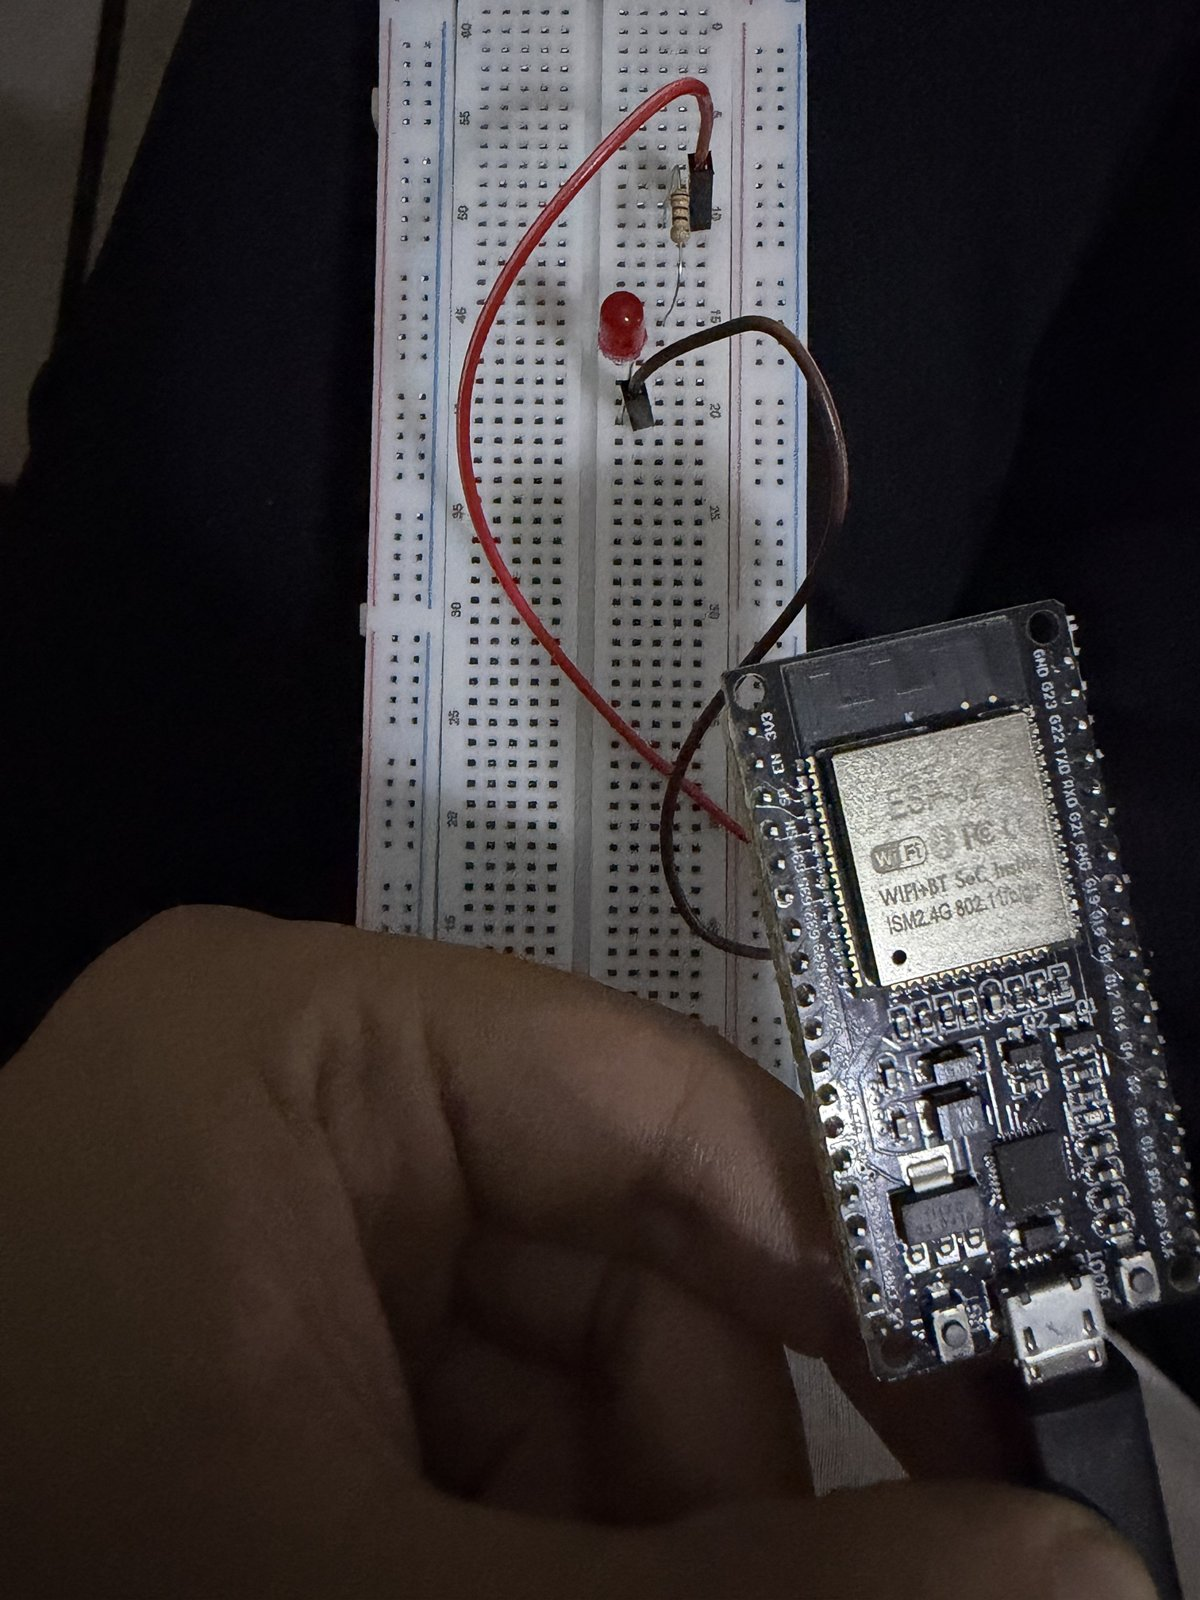
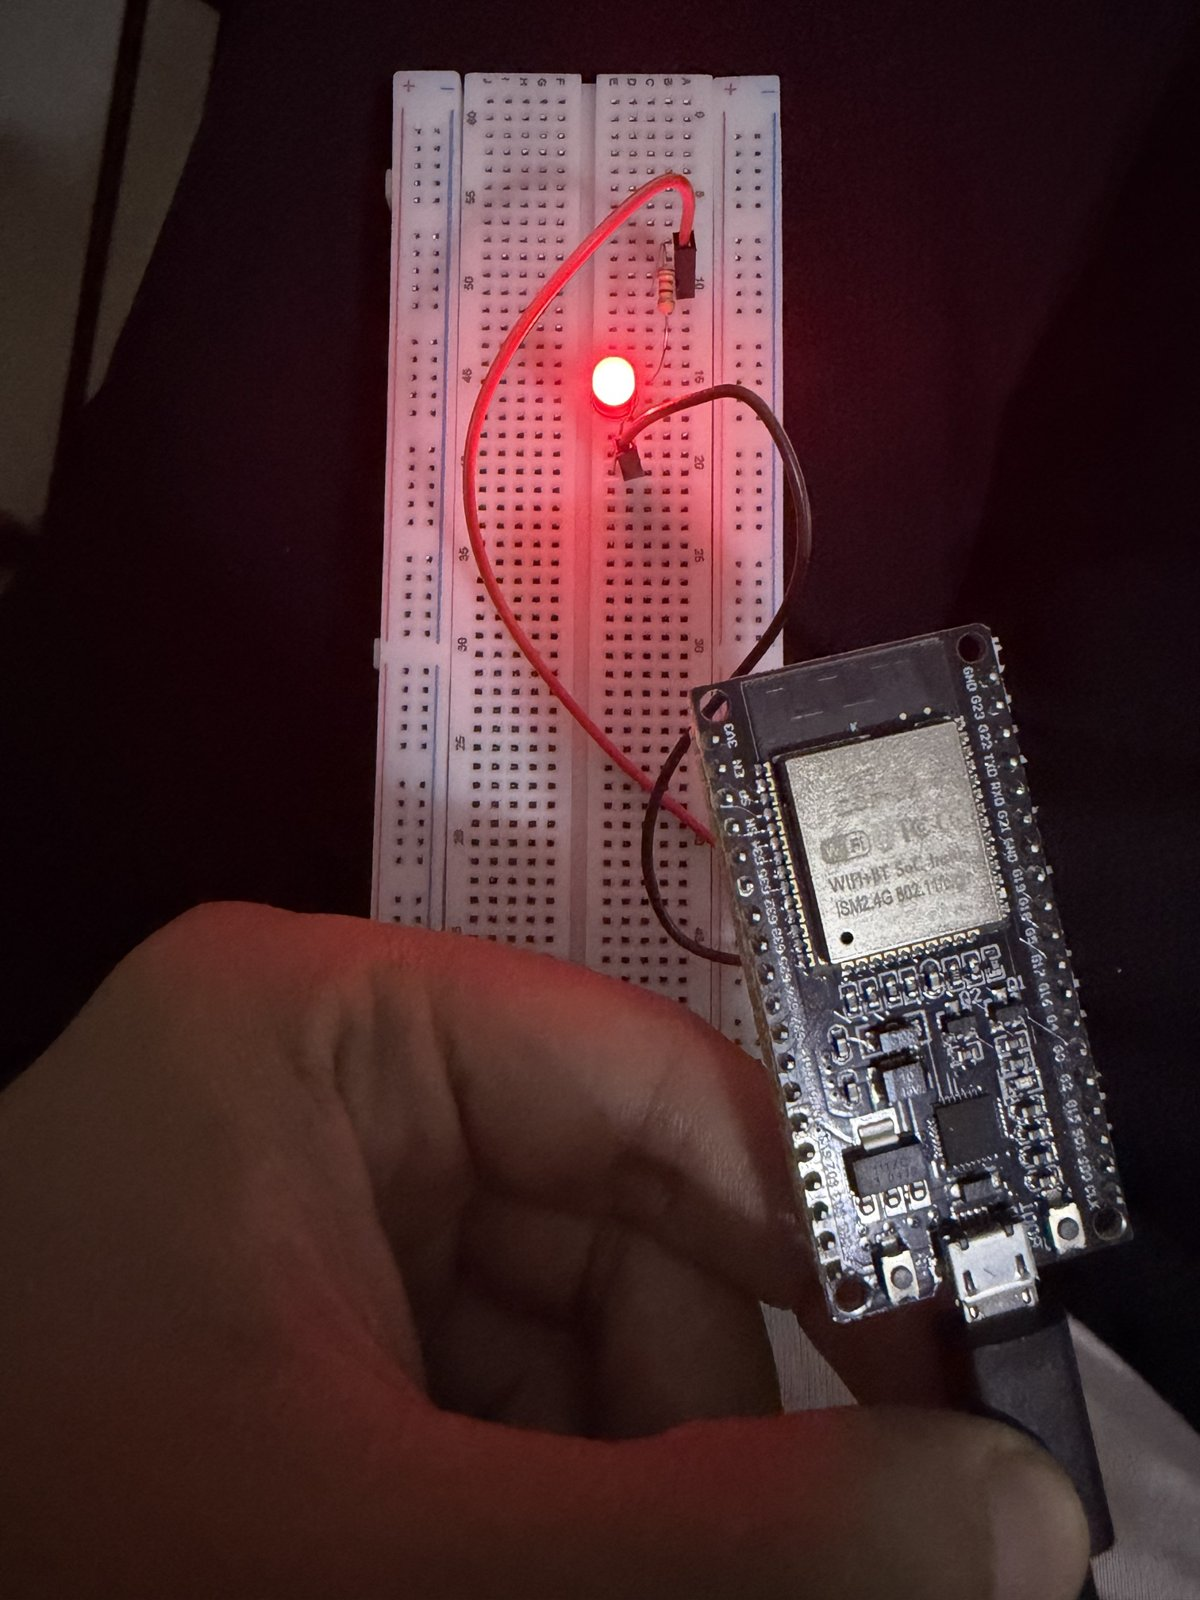
solve data file

diff --git a/embedded-security-journey/week2-dht22/README.md b/embedded-security-journey/week2-dht22/README.md
@@ -9,15 +9,15 @@
 | `out` | GPIO4 |
 | `-` | GND |
 
-The module already has the pull-up resistor on board. I used 3V3, not 5 V.
+It is a 3-pin DHT22 module. I used 3V3, not 5 V.
 
 ## Result
-[`week2-dht22.ino`](week2-dht22.ino) printed readings every 2 seconds. Typical values in my room: about 27.7 to 29.6 °C and 54 to 62 % humidity. Breathing on the sensor made humidity jump up, which confirmed it was measuring the air around it.
+[`week2-dht22.ino`](week2-dht22.ino) printed readings every 2 seconds. Typical values in my room: about 27.7 to 29.6 °C and 54 to 62 % humidity.
 
 The DHT22 uses a **single-wire** protocol (not I2C), so the library handles the microsecond timing for me. That timing is what I decoded later in [`dht22-signal-simulation`](../dht22-signal-simulation).
 
 ## What happened to the sensor
-While I was rewiring the board for the logic analyzer the sensor got hot and the ESP32 stopped enumerating. I unplugged everything, and a continuity check on the sensor read about **9.8 Ω between `+` and `-`**, where a healthy one should read open-circuit or very high. I treated it as dead. The root cause is not confirmed (wiring or polarity is my main suspect). See [`../docs/lessons-learned.md`](../docs/lessons-learned.md).
+While I was rewiring the board for the logic analyzer the sensor got hot and the ESP32 stopped enumerating. I unplugged everything and tested the sensor with the multimeter: it beeped in continuity mode and read about **9.8 Ω** in the Ω 200 range, where a healthy one should read open-circuit or very high. I treated it as dead. The root cause is not confirmed (wiring or polarity is my main suspect). See [`../docs/lessons-learned.md`](../docs/lessons-learned.md).
 
 ## What I learned
 <!-- TODO (in my own words): input vs output, how a single-wire sensor sends data, why 3V3 -->

diff --git a/embedded-security-journey/docs/lessons-learned.md b/embedded-security-journey/docs/lessons-learned.md
@@ -12,12 +12,12 @@ Things that cost me time, in case they save someone else's.
 ## Wiring
 - UART: RX goes to TX and TX goes to RX, ground is shared, and VCC stays disconnected when the target has its own power.
 - The FTDI's 3.3 V / 5 V jumper must be on **3.3 V** for an ESP32.
-- The 38-pin ESP32 is wider than a standard 830-point breadboard half and covers all the holes next to its pins. Use jumper wires, or keep it off the breadboard.
+- The 38-pin ESP32 is wide and can leave no free holes next to its pins on a breadboard. I kept it off the breadboard and used jumper wires.
 - Read the pin names printed on a module (front and back differ). Do a continuity check between power pins before connecting power.
 
 ## Multimeter
 - Continuity (beep) mode between `3V3`/`VIN` and `GND` on the bare board: no beep means no short.
-- A damaged DHT22 module read about 9.8 Ω between `+` and `-` (Ω 200 range). A healthy one should read open-circuit or very high.
+- The damaged DHT22 module beeped in continuity mode and read about 9.8 Ω in the Ω 200 range. A healthy one should read open-circuit or very high.
 
 ## PulseView
 - For microsecond signals, zoom until the ruler ticks are about 100 µs apart.

diff --git a/embedded-security-journey/week3-uart-bootlog/README.md b/embedded-security-journey/week3-uart-bootlog/README.md
@@ -19,9 +19,9 @@ The ESP32 board's own CP2102 is wired internally to the chip, so it can't be use
 PuTTY: Serial, the FTDI's COM port (COM5), 115200 baud, *Session → Logging → All session output*.
 
 [`bootlog.txt`](bootlog.txt) is the saved log. It contains:
-- 166 lines of `Failed to read from DHT sensor!` (the sketch from week 2 was still running with the sensor disconnected)
-- 239 lines of temperature/humidity readings after I reconnected it
-- one truncated line where I pressed the EN (reset) button mid-print
+- about 165 lines of `Failed to read from DHT sensor!` (the sketch from week 2 was still running while the sensor was disconnected)
+- about 239 lines of temperature/humidity readings after I reconnected it
+- one truncated `Failed...` line, where I pressed the EN (reset) button mid-print
 
 ## What I learned
 <!-- TODO (in my own words): TX vs RX, why VCC stays disconnected, what a wrong baud rate looks like -->

diff --git a/embedded-security-journey/README.md b/embedded-security-journey/README.md
@@ -21,7 +21,7 @@ Troubleshooting notes from the setup are in [`docs/lessons-learned.md`](docs/les
 
 ## Hardware
 
-- ESP32 DevKit, 38-pin (ESP32-WROOM-32, on-board CP2102 USB bridge)
+- ESP32 DevKit, 38-pin (on-board CP2102 USB bridge)
 - FTDI FT232RL USB-UART adapter (3.3 V / 5 V jumper)
 - 8-channel 24 MHz USB logic analyzer (Saleae-compatible clone, `fx2lafw`)
 - DHT22 (AM2302) module, UNI-T UT33D+ multimeter
